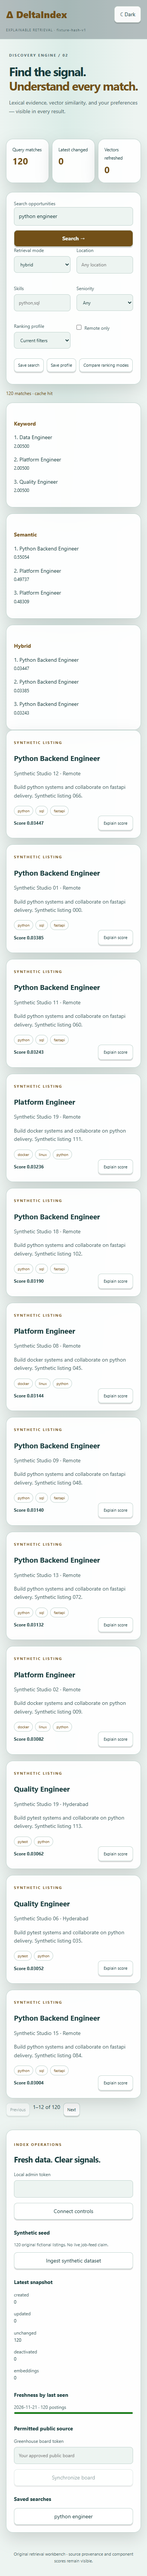
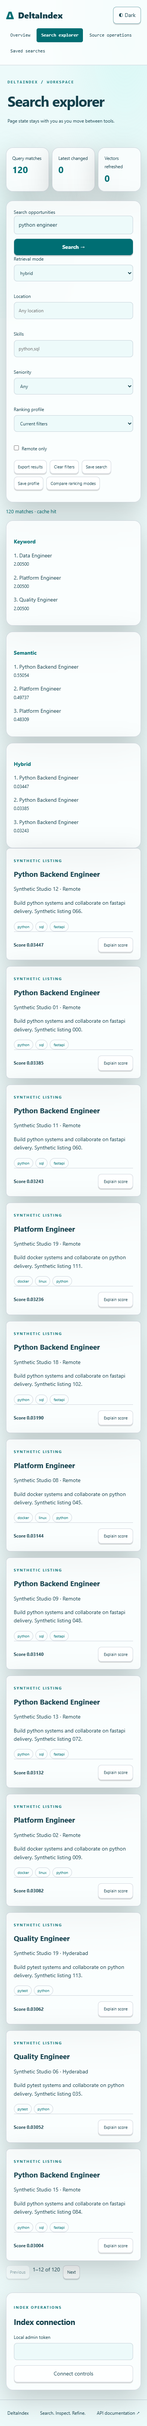
Phase 2: rebuild DeltaIndex as a teal search and source workbench

Changed region(s): [[0.0, 0.0, 1.0, 0.9998]]

diff --git a/frontend/src/App.tsx b/frontend/src/App.tsx
@@ -1,14 +1,20 @@
-import {useEffect,useRef,useState} from 'react';import {request} from './api';
-type Job={id:string;title:string;employer:string;description:string;location:string;skills:string[];synthetic:boolean;remote:boolean};
-type Match={job:Job;score:number;base_score:number;lexical_rank:number|null;vector_rank:number|null;preferences:Record<string,number>};
-type Search={results:Match[];total:number;cache:string;embedding_model:string;lexical_engine:string};
-type Run={id:string;created_at:string;stats:{created:number;updated:number;unchanged:number;deactivated:number;embeddings:number}};
-type Profile={id:string;skills:string[];remote:boolean;location:string;seniority:string;weights:Record<string,number>};
-export default function App(){const [token,setToken]=useState('');const [query,setQuery]=useState('python engineer');const [mode,setMode]=useState('hybrid');const [location,setLocation]=useState('');const [skills,setSkills]=useState('');const [remote,setRemote]=useState(false);const [seniority,setSeniority]=useState('');const [offset,setOffset]=useState(0);const [data,setData]=useState<Search>();const [runs,setRuns]=useState<Run[]>([]);const [fresh,setFresh]=useState<{day:string;postings:number}[]>([]);const [profiles,setProfiles]=useState<Profile[]>([]);const [profile,setProfile]=useState('');const [saved,setSaved]=useState<{id:string;query:string}[]>([]);const [board,setBoard]=useState('');const [selected,setSelected]=useState<Match>();const [compare,setCompare]=useState<{mode:string;data:Search}[]>([]);const [health,setHealth]=useState<Record<string,string>>({});const [error,setError]=useState('');const [status,setStatus]=useState('Loading index…');const [busy,setBusy]=useState(false);const [light,setLight]=useState(false);const started=useRef(false);const last=useRef<()=>Promise<void>>(async()=>{});
-const latest=runs[0]?.stats;async function act(fn:()=>Promise<void>){last.current=fn;setBusy(true);setError('');try{await fn()}catch(e){setError(e instanceof Error?e.message:'Request failed')}finally{setBusy(false)}}
-async function refresh(){const [h,r,f]=await Promise.all([request<Record<string,string>>('/health',token),request<Run[]>('/ingest/status',token),request<{day:string;postings:number}[]>('/ingest/freshness',token)]);setHealth(h);setRuns(r);setFresh(f)}
-async function connect(){await refresh();setProfiles(await request('/profiles',token));setSaved(await request('/saved-searches',token));setStatus('Connected to index controls.')}
-useEffect(()=>{if(!started.current){started.current=true;void act(async()=>{await refresh();setStatus('Index ready. Ingest the synthetic dataset to get started.')})}},[]);useEffect(()=>{document.documentElement.dataset.theme=light?'light':'dark'},[light]);
-function params(m=mode,page=0){return new URLSearchParams({q:query,mode:m,location,skills,remote:String(remote),seniority,limit:'12',offset:String(page),...(profile?{profile_id:profile}:{})})}
-async function search(page=0){const result=await request<Search>('/search?'+params(mode,page),token);setData(result);setOffset(page);setStatus(result.total+' matches · cache '+result.cache)}
-return <><header className="topbar"><a href="/" className="brand">Δ DeltaIndex</a><span className="mode">EXPLAINABLE RETRIEVAL · {health.embedding_mode??'CONNECTING'}</span><button aria-label="Change theme" onClick={()=>setLight(!light)}>{light?'☾ Dark':'☀ Light'}</button></header><div className="search-layout"><aside className="panel"><p className="eyebrow">INDEX OPERATIONS</p><h2>Fresh data. Clear signals.</h2><label>Local admin token<input type="password" id="token" value={token} onChange={e=>setToken(e.target.value)} autoComplete="off"/></label><button className="wide" onClick={()=>void act(connect)} disabled={busy}>Connect controls</button><h3>Synthetic seed</h3><p className="source-notice">120 original fictional listings. No live job-feed claim.</p><button id="seed" className="wide" disabled={busy} onClick={()=>void act(async()=>{const result=await request<Run['stats']>('/ingest/seed',token,{});await refresh();await search();setStatus('Ingest: '+JSON.stringify(result))})}>Ingest synthetic dataset</button><h3>Latest snapshot</h3><div id="ingest">{latest?<dl>{Object.entries(latest).map(([k,v])=><div key={k}><dt>{k}</dt><dd>{v}</dd></div>)}</dl>:<p className="empty">No source runs yet.</p>}</div><h3>Freshness by last seen</h3>{!fresh.length&&<p className="empty">No active postings.</p>}{fresh.map(f=><label key={f.day}>{f.day} · {f.postings} postings<meter min={0} max={Math.max(...fresh.map(x=>x.postings),1)} value={f.postings}/></label>)}<h3>Permitted public source</h3><label>Greenhouse board token<input value={board} onChange={e=>setBoard(e.target.value)} placeholder="Your approved public board" pattern="[A-Za-z0-9_-]+"/></label><button className="wide" disabled={busy||!board} onClick={()=>void act(async()=>{await request('/sources',token,{id:board,board});await request('/sources/'+encodeURIComponent(board)+'/run',token,{});await refresh();setStatus('Public source synchronized.')})}>Synchronize board</button><h3>Saved searches</h3>{saved.map(s=><button className="wide" key={s.id} onClick={()=>setQuery(s.query)}>{s.query}</button>)}{!saved.length&&<p className="empty">Connect to load your saved searches.</p>}</aside><main><section className="hero"><p className="eyebrow">DISCOVERY ENGINE / 02</p><h1>Find the signal.<br/><em>Understand every match.</em></h1><p>Lexical evidence, vector similarity, and your preferences — visible in every result.</p></section><div className="metrics"><div className="panel metric"><small>Query matches</small><strong>{data?.total??'—'}</strong></div><div className="panel metric"><small>Latest changed</small><strong>{latest?latest.created+latest.updated:'—'}</strong></div><div className="panel metric"><small>Vectors refreshed</small><strong>{latest?.embeddings??'—'}</strong></div></div><section className="panel"><form onSubmit={e=>{e.preventDefault();void act(()=>search())}}><label htmlFor="query">Search opportunities</label><div className="searchbar"><input id="query" required maxLength={500} value={query} onChange={e=>setQuery(e.target.value)}/><button className="primary" disabled={busy}>Search →</button></div><div className="filter-row"><label>Retrieval mode<select value={mode} onChange={e=>setMode(e.target.value)}><option>hybrid</option><option>keyword</option><option>semantic</option></select></label><label>Location<input value={location} onChange={e=>setLocation(e.target.value)} placeholder="Any location"/></label><label>Skills<input value={skills} onChange={e=>setSkills(e.target.value)} placeholder="python,sql"/></label><label>Seniority<select value={seniority} onChange={e=>setSeniority(e.target.value)}><option value="">Any</option><option>junior</option><option>mid</option><option>senior</option></select></label><label>Ranking profile<select value={profile} onChange={e=>setProfile(e.target.value)}><option value="">Current filters</option>{profiles.map(p=><option key={p.id} value={p.id}>{p.skills.join(', ')} · {p.location||'Any location'}</option>)}</select></label><label><input type="checkbox" checked={remote} onChange={e=>setRemote(e.target.checked)}/>Remote only</label></div></form><div className="actions"><button disabled={busy} onClick={()=>void act(async()=>{await request('/saved-searches',token,{query});setSaved(await request('/saved-searches',token));setStatus('Search saved.')})}>Save search</button><button disabled={busy} onClick={()=>void act(async()=>{await request('/profiles',token,{skills:skills.split(',').map(x=>x.trim()).filter(Boolean),location,remote,seniority});setProfiles(await request('/profiles',token));setStatus('Profile saved.')})}>Save profile</button><button id="compare" disabled={busy} onClick={()=>void act(async()=>{setCompare(await Promise.all(['keyword','semantic','hybrid'].map(async m=>({mode:m,data:await request<Search>('/search?'+params(m),token)}))));setStatus('Compared ranking modes.')})}>Compare ranking modes</button></div></section><div id="status" className="status" role="status">{busy&&<span className="spinner"/>}{status}</div>{error&&<div role="alert" className="error"><p>{error}</p><button onClick={()=>void act(last.current)}>Retry</button></div>}{compare.length>0&&<section className="comparison">{compare.map(c=><article className="panel" key={c.mode}><h3>{c.mode}</h3>{c.data.results.slice(0,3).map((r,i)=><p key={r.job.id}>{i+1}. {r.job.title}<br/><small>{r.score.toFixed(5)}</small></p>)}</article>)}</section>}<div id="results" className="job-grid">{data?.results.map(r=><article className="panel job" key={r.job.id}><span className="eyebrow">{r.job.synthetic?'SYNTHETIC LISTING':'PUBLIC SOURCE'}</span><h3>{r.job.title}</h3><p>{r.job.employer} · {r.job.location}</p><p>{r.job.description}</p><div className="chips">{r.job.skills.map(s=><span key={s}>{s}</span>)}</div><div className="section-head"><strong>Score {r.score.toFixed(5)}</strong><button onClick={()=>setSelected(r)}>Explain score</button></div></article>)}</div>{data?.total===0&&<p className="empty">No matches. Adjust filters or ingest a source.</p>}{data&&<div className="actions"><button disabled={busy||offset===0} onClick={()=>void act(()=>search(Math.max(0,offset-12)))}>Previous</button><span>{offset+1}–{Math.min(offset+12,data.total)} of {data.total}</span><button disabled={busy||offset+12>=data.total} onClick={()=>void act(()=>search(offset+12))}>Next</button></div>}</main></div>{selected&&<div className="overlay" role="dialog" aria-modal="true" aria-label="Score evidence"><section className="panel drawer"><p className="eyebrow">RANKING EVIDENCE</p><h2>{selected.job.title}</h2><table className="rank-table"><tbody><tr><th>Lexical rank</th><td>{selected.lexical_rank??'No lexical match'}</td></tr><tr><th>Vector rank</th><td>{selected.vector_rank??'No vector match'}</td></tr><tr><th>Base score</th><td>{selected.base_score.toFixed(6)}</td></tr>{Object.entries(selected.preferences).map(([k,v])=><tr key={k}><th>{k} contribution</th><td>{v.toFixed(6)}</td></tr>)}</tbody></table><p className="source-notice">{data?.embedding_model} · {data?.lexical_engine}. Fixture hash vectors are not semantic inference.</p><div className="actions">{[true,false].map(useful=><button key={String(useful)} onClick={()=>void act(async()=>{await request('/feedback',token,{job_id:selected.job.id,useful});setStatus('Feedback saved.');setSelected(undefined)})}>{useful?'Useful match':'Not useful'}</button>)}<button autoFocus onClick={()=>setSelected(undefined)}>Close evidence</button></div></section></div>}<footer>Original retrieval workbench · source provenance and component scores remain visible.</footer></>}
+import {useEffect,useState} from 'react';
+import Workspace from './Workspace';
+
+const routes = [['workspace','Search explorer'],['sources','Source operations'],['saved','Saved searches']] as const;
+function route(){return window.location.hash.replace('#/','') || 'home'}
+export default function App(){
+ const [page,setPage]=useState(route);const [opened,setOpened]=useState(page!=='home');
+ const [light,setLight]=useState(localStorage.getItem('DeltaIndex-theme')==='light');
+ useEffect(()=>{const change=()=>{const next=route();setPage(next);if(next!=='home')setOpened(true);window.scrollTo(0,0)};window.addEventListener('hashchange',change);return()=>window.removeEventListener('hashchange',change)},[]);
+ useEffect(()=>{document.documentElement.dataset.theme=light?'light':'dark';localStorage.setItem('DeltaIndex-theme',light?'light':'dark')},[light,page,opened]);
+ const valid=page==='home'||routes.some(([id])=>id===page);
+ return <div className="experience" data-page={page}>
+ <a className="skip-link" href="#page-content" onClick={e=>{e.preventDefault();document.getElementById("page-content")?.focus()}}>Skip to content</a>
+ <header className="site-nav"><a className="site-brand" href="#/home"><span>Δ</span>DeltaIndex</a><nav aria-label="Primary navigation"><a href="#/home" aria-current={page==='home'?'page':undefined}>Overview</a>{routes.map(([id,label])=><a key={id} href={'#/'+id} aria-current={page===id?'page':undefined}>{label}</a>)}</nav><button className="theme-switch" aria-label="Change theme" onClick={()=>setLight(!light)}>{light?'◐ Dark':'◑ Light'}</button></header>
+ <div id="page-content" tabIndex={-1}>
+ {page==='home'&&<main className="landing"><section className="landing-hero"><div className="hero-copy"><p className="landing-kicker">Less noise. More signal.</p><h1>The right role.<br/>The reasoning behind it.</h1><p className="landing-description">Search across words, meaning and your preferences. See how every match earned its place, then refine the search your way.</p><div className="landing-actions"><a className="launch-button" href="#/workspace">Launch search <span>↗</span></a><a className="text-link" href="#how-it-works" onClick={e=>{e.preventDefault();document.getElementById('how-it-works')?.scrollIntoView({behavior:'smooth'})}}>How it works ↓</a></div></div><div className="signal-art" aria-label="Illustration of hybrid ranking, not live scores"><div className="signal-axis">QUERY → CANDIDATES → EVIDENCE</div><div className="signal-bar"><span>Keyword</span><i/></div><div className="signal-bar"><span>Semantic</span><i/></div><div className="signal-bar"><span>Your context</span><i/></div><div className="signal-result">Δ <strong>A clearer match.</strong><span>Every score explained.</span></div><small>Retrieval concept · not a live result</small></div></section><section className="landing-path" id="how-it-works"><div className="section-intro"><p className="landing-kicker">DESIGNED AROUND YOUR WORKFLOW</p><h2>Follow the evidence.<br/>Refine the result.</h2></div><div className="journey-grid"><a className="journey-card" href="#/workspace"><span>SEARCH</span><h3>Three ways to discover</h3><p>Compare keyword, semantic and hybrid retrieval.</p><b aria-hidden="true">↗</b></a><a className="journey-card" href="#/sources"><span>SYNC</span><h3>Keep the index current</h3><p>Inspect source changes and synchronize a board.</p><b aria-hidden="true">↗</b></a><a className="journey-card" href="#/saved"><span>REFINE</span><h3>Pick up where you left off</h3><p>Reuse saved queries and ranking profiles.</p><b aria-hidden="true">↗</b></a></div></section><section className="honest-note"><span>Built on evidence</span><p>Explore working tools, inspect the results, and keep the limits visible. Demo data is labeled. No invented activity or production scores.</p><a href="/docs">Explore the API ↗</a></section></main>}
+ {!valid&&<section className="landing"><h1>Page not found</h1><a href="#/home">Return to overview</a></section>}
+ {opened&&<div className="product-surface" hidden={page==='home'||!valid}><div className="page-heading"><p className="landing-kicker">DeltaIndex / WORKSPACE</p><h1>{routes.find(([id])=>id===page)?.[1]}</h1><p>Page state stays with you as you move between tools.</p></div><Workspace/></div>}
+ </div><footer className="site-footer"><a href="#/home">DeltaIndex</a><span>Search. Inspect. Refine.</span><a href="/docs">API documentation ↗</a></footer></div>
+}

diff --git a/frontend/src/Workspace.tsx b/frontend/src/Workspace.tsx
@@ -1,0 +1,14 @@
+import {useEffect,useRef,useState} from 'react';import {request} from './api';
+type Job={id:string;title:string;employer:string;description:string;location:string;skills:string[];synthetic:boolean;remote:boolean};
+type Match={job:Job;score:number;base_score:number;lexical_rank:number|null;vector_rank:number|null;preferences:Record<string,number>};
+type Search={results:Match[];total:number;cache:string;embedding_model:string;lexical_engine:string};
+type Run={id:string;created_at:string;stats:{created:number;updated:number;unchanged:number;deactivated:number;embeddings:number}};
+type Profile={id:string;skills:string[];remote:boolean;location:string;seniority:string;weights:Record<string,number>};
+export default function Workspace(){const [token,setToken]=useState('');const [query,setQuery]=useState('python engineer');const [mode,setMode]=useState('hybrid');const [location,setLocation]=useState('');const [skills,setSkills]=useState('');const [remote,setRemote]=useState(false);const [seniority,setSeniority]=useState('');const [offset,setOffset]=useState(0);const [data,setData]=useState<Search>();const [runs,setRuns]=useState<Run[]>([]);const [fresh,setFresh]=useState<{day:string;postings:number}[]>([]);const [profiles,setProfiles]=useState<Profile[]>([]);const [profile,setProfile]=useState('');const [saved,setSaved]=useState<{id:string;query:string}[]>([]);const [board,setBoard]=useState('');const [selected,setSelected]=useState<Match>();const [compare,setCompare]=useState<{mode:string;data:Search}[]>([]);const [health,setHealth]=useState<Record<string,string>>({});const [error,setError]=useState('');const [status,setStatus]=useState('Loading index…');const [busy,setBusy]=useState(false);const [light,setLight]=useState(false);const started=useRef(false);const last=useRef<()=>Promise<void>>(async()=>{});
+const latest=runs[0]?.stats;async function act(fn:()=>Promise<void>){last.current=fn;setBusy(true);setError('');try{await fn()}catch(e){setError(e instanceof Error?e.message:'Request failed')}finally{setBusy(false)}}
+async function refresh(){const [h,r,f]=await Promise.all([request<Record<string,string>>('/health',token),request<Run[]>('/ingest/status',token),request<{day:string;postings:number}[]>('/ingest/freshness',token)]);setHealth(h);setRuns(r);setFresh(f)}
+async function connect(){await refresh();setProfiles(await request('/profiles',token));setSaved(await request('/saved-searches',token));setStatus('Connected to index controls.')}
+useEffect(()=>{if(!started.current){started.current=true;void act(async()=>{await refresh();setStatus('Index ready. Ingest the synthetic dataset to get started.')})}},[]);useEffect(()=>{document.documentElement.dataset.theme=light?'light':'dark'},[light]);
+function params(m=mode,page=0){return new URLSearchParams({q:query,mode:m,location,skills,remote:String(remote),seniority,limit:'12',offset:String(page),...(profile?{profile_id:profile}:{})})}
+async function search(page=0){const result=await request<Search>('/search?'+params(mode,page),token);setData(result);setOffset(page);setStatus(result.total+' matches · cache '+result.cache)}
+return <><header className="topbar"><a href="/" className="brand">Δ DeltaIndex</a><span className="mode">EXPLAINABLE RETRIEVAL · {health.embedding_mode??'CONNECTING'}</span><button aria-label="Change theme" onClick={()=>setLight(!light)}>{light?'☾ Dark':'☀ Light'}</button></header><div className="search-layout"><aside className="panel"><p className="eyebrow">INDEX OPERATIONS</p><h2>Index connection</h2><label>Local admin token<input type="password" id="token" value={token} onChange={e=>setToken(e.target.value)} autoComplete="off"/></label><button className="wide" onClick={()=>void act(connect)} disabled={busy}>Connect controls</button><div className="source-detail"><section><h3>Synthetic seed</h3><p className="source-notice">120 original fictional listings. No live job-feed claim.</p><button id="seed" className="wide" disabled={busy} onClick={()=>void act(async()=>{const result=await request<Run['stats']>('/ingest/seed',token,{});await refresh();await search();setStatus('Ingest: '+JSON.stringify(result))})}>Ingest synthetic dataset</button><h3>Latest snapshot</h3><div id="ingest">{latest?<dl>{Object.entries(latest).map(([k,v])=><div key={k}><dt>{k}</dt><dd>{v}</dd></div>)}</dl>:<p className="empty">No source runs yet.</p>}</div><h3>Freshness by last seen</h3>{!fresh.length&&<p className="empty">No active postings.</p>}{fresh.map(f=><label key={f.day}>{f.day} · {f.postings} postings<meter min={0} max={Math.max(...fresh.map(x=>x.postings),1)} value={f.postings}/></label>)}</section><section><h3>Permitted public source</h3><label>Greenhouse board token<input value={board} onChange={e=>setBoard(e.target.value)} placeholder="Your approved public board" pattern="[A-Za-z0-9_-]+"/></label><button className="wide" disabled={busy||!board} onClick={()=>void act(async()=>{await request('/sources',token,{id:board,board});await request('/sources/'+encodeURIComponent(board)+'/run',token,{});await refresh();setStatus('Public source synchronized.')})}>Synchronize board</button></section></div><div className="saved-detail"><h3>Saved searches</h3>{saved.map(s=><button className="wide" key={s.id} onClick={()=>{setQuery(s.query);window.location.hash="/workspace"}}>{s.query}</button>)}{!saved.length&&<p className="empty">Connect to load your saved searches.</p>}</div></aside><main><section className="hero"><p className="eyebrow">DISCOVERY ENGINE / 02</p><h1>Find the signal.<br/><em>Understand every match.</em></h1><p>Lexical evidence, vector similarity, and your preferences — visible in every result.</p></section><div className="metrics"><div className="panel metric"><small>Query matches</small><strong>{data?.total??'—'}</strong></div><div className="panel metric"><small>Latest changed</small><strong>{latest?latest.created+latest.updated:'—'}</strong></div><div className="panel metric"><small>Vectors refreshed</small><strong>{latest?.embeddings??'—'}</strong></div></div><section className="panel"><form onSubmit={e=>{e.preventDefault();void act(()=>search())}}><label htmlFor="query">Search opportunities</label><div className="searchbar"><input id="query" required maxLength={500} value={query} onChange={e=>setQuery(e.target.value)}/><button className="primary" disabled={busy}>Search →</button></div><div className="filter-row"><label>Retrieval mode<select value={mode} onChange={e=>setMode(e.target.value)}><option>hybrid</option><option>keyword</option><option>semantic</option></select></label><label>Location<input value={location} onChange={e=>setLocation(e.target.value)} placeholder="Any location"/></label><label>Skills<input value={skills} onChange={e=>setSkills(e.target.value)} placeholder="python,sql"/></label><label>Seniority<select value={seniority} onChange={e=>setSeniority(e.target.value)}><option value="">Any</option><option>junior</option><option>mid</option><option>senior</option></select></label><label>Ranking profile<select value={profile} onChange={e=>setProfile(e.target.value)}><option value="">Current filters</option>{profiles.map(p=><option key={p.id} value={p.id}>{p.skills.join(', ')} · {p.location||'Any location'}</option>)}</select></label><label><input type="checkbox" checked={remote} onChange={e=>setRemote(e.target.checked)}/>Remote only</label></div></form><div className="actions"><button disabled={!data} onClick={()=>{const blob=new Blob([JSON.stringify(data,null,2)],{type:"application/json"});const url=URL.createObjectURL(blob);const a=document.createElement("a");a.href=url;a.download="deltaindex-results.json";a.click();URL.revokeObjectURL(url)}}>Export results</button><button onClick={()=>{setLocation("");setSkills("");setRemote(false);setSeniority("");setProfile("");setStatus("Filters cleared. Search to refresh results.")}}>Clear filters</button><button disabled={busy} onClick={()=>void act(async()=>{await request('/saved-searches',token,{query});setSaved(await request('/saved-searches',token));setStatus('Search saved.')})}>Save search</button><button disabled={busy} onClick={()=>void act(async()=>{await request('/profiles',token,{skills:skills.split(',').map(x=>x.trim()).filter(Boolean),location,remote,seniority});setProfiles(await request('/profiles',token));setStatus('Profile saved.')})}>Save profile</button><button id="compare" disabled={busy} onClick={()=>void act(async()=>{setCompare(await Promise.all(['keyword','semantic','hybrid'].map(async m=>({mode:m,data:await request<Search>('/search?'+params(m),token)}))));setStatus('Compared ranking modes.')})}>Compare ranking modes</button></div></section><div id="status" className="status" role="status">{busy&&<span className="spinner"/>}{status}</div>{error&&<div role="alert" className="error"><p>{error}</p><button onClick={()=>void act(last.current)}>Retry</button></div>}{compare.length>0&&<section className="comparison">{compare.map(c=><article className="panel" key={c.mode}><h3>{c.mode}</h3>{c.data.results.slice(0,3).map((r,i)=><p key={r.job.id}>{i+1}. {r.job.title}<br/><small>{r.score.toFixed(5)}</small></p>)}</article>)}</section>}<div id="results" className="job-grid">{data?.results.map(r=><article className="panel job" key={r.job.id}><span className="eyebrow">{r.job.synthetic?'SYNTHETIC LISTING':'PUBLIC SOURCE'}</span><h3>{r.job.title}</h3><p>{r.job.employer} · {r.job.location}</p><p>{r.job.description}</p><div className="chips">{r.job.skills.map(s=><span key={s}>{s}</span>)}</div><div className="section-head"><strong>Score {r.score.toFixed(5)}</strong><button onClick={()=>setSelected(r)}>Explain score</button></div></article>)}</div>{data?.total===0&&<p className="empty">No matches. Adjust filters or ingest a source.</p>}{data&&<div className="actions"><button disabled={busy||offset===0} onClick={()=>void act(()=>search(Math.max(0,offset-12)))}>Previous</button><span>{offset+1}–{Math.min(offset+12,data.total)} of {data.total}</span><button disabled={busy||offset+12>=data.total} onClick={()=>void act(()=>search(offset+12))}>Next</button></div>}</main></div>{selected&&<div className="overlay" role="dialog" aria-modal="true" aria-label="Score evidence"><section className="panel drawer"><p className="eyebrow">RANKING EVIDENCE</p><h2>{selected.job.title}</h2><table className="rank-table"><tbody><tr><th>Lexical rank</th><td>{selected.lexical_rank??'No lexical match'}</td></tr><tr><th>Vector rank</th><td>{selected.vector_rank??'No vector match'}</td></tr><tr><th>Base score</th><td>{selected.base_score.toFixed(6)}</td></tr>{Object.entries(selected.preferences).map(([k,v])=><tr key={k}><th>{k} contribution</th><td>{v.toFixed(6)}</td></tr>)}</tbody></table><p className="source-notice">{data?.embedding_model} · {data?.lexical_engine}. Fixture hash vectors are not semantic inference.</p><div className="actions">{[true,false].map(useful=><button key={String(useful)} onClick={()=>void act(async()=>{await request('/feedback',token,{job_id:selected.job.id,useful});setStatus('Feedback saved.');setSelected(undefined)})}>{useful?'Useful match':'Not useful'}</button>)}<button autoFocus onClick={()=>setSelected(undefined)}>Close evidence</button></div></section></div>}<footer>Original retrieval workbench · source provenance and component scores remain visible.</footer></>}

diff --git a/frontend/src/experience.css b/frontend/src/experience.css
@@ -1,0 +1,13 @@
+/* Original multi-page visual direction; production workflows remain in Workspace. */
+:root{--bg:#071c24;--panel:#103b46ad;--ink:#e9fffc;--muted:#a6ccd0;--accent:#80ecdf;--line:rgba(128,236,223,.24);--shadow:0 24px 70px #0003;color-scheme:dark}
+html[data-theme=light]{--bg:#edfafa;--panel:#ffffffb8;--ink:#123f4b;--muted:#123f4b;--accent:#006e73;--line:#8c96aa66;color-scheme:light}
+body,html[data-theme=light] body{background:var(--bg);color:var(--ink)}body:before{content:'';position:fixed;inset:0;z-index:-1;pointer-events:none;background:radial-gradient(ellipse at 85% 12%,rgba(128,236,223,.18),transparent 42%),radial-gradient(ellipse at 0 75%,rgba(128,236,223,.09),transparent 40%)}
+.site-nav{position:sticky;top:0;z-index:5;display:flex;align-items:center;gap:28px;padding:18px 4vw;background:var(--panel);backdrop-filter:blur(24px);border-bottom:1px solid var(--line)}.site-brand{display:flex;align-items:center;gap:10px;text-decoration:none;font-weight:800;font-size:22px;white-space:nowrap}.site-brand>span{color:var(--accent);font-size:28px}.site-nav nav{display:flex;gap:5px;flex:1;justify-content:center;flex-wrap:wrap}.site-nav nav a{font-size:12px;text-decoration:none;padding:9px 12px;border-radius:30px;color:var(--muted)}.site-nav nav a[aria-current=page]{background:var(--accent);color:var(--bg);font-weight:700}.theme-switch{white-space:nowrap}.skip-link{position:absolute;left:10px;top:-100px;z-index:20;background:var(--bg);padding:14px}.skip-link:focus{top:10px}
+.landing{max-width:1440px;margin:auto;padding:0 5vw}.landing-hero{min-height:650px;display:grid;grid-template-columns:1.15fr 1fr;align-items:center;gap:5vw;padding:65px 0 85px}.landing-kicker{font-size:11px;letter-spacing:2px;text-transform:uppercase;color:var(--accent);font-weight:700}.landing h1{font-size:clamp(42px,5.7vw,83px);letter-spacing:-3px;line-height:1.04;margin:25px 0}.landing-description{max-width:510px;font-size:18px;color:var(--muted);line-height:1.8}.landing-actions{display:flex;gap:25px;align-items:center;flex-wrap:wrap;margin-top:35px}.launch-button{padding:17px 24px;border-radius:40px;background:var(--accent);color:var(--bg);font-weight:750;text-decoration:none;box-shadow:inset 0 2px #fff5,0 12px 30px #0002;display:flex;gap:24px;align-items:center}.text-link{font-size:13px;text-underline-offset:6px}.landing-path{padding:65px 0;border-top:1px solid var(--line);scroll-margin-top:100px}.section-intro h2{font-size:36px;line-height:1.2;letter-spacing:-1px}.journey-grid{display:grid;grid-template-columns:repeat(3,1fr);gap:20px;margin:35px 0}.journey-card{position:relative;display:block;text-decoration:none;padding:30px;border:1px solid var(--line);background:var(--panel);backdrop-filter:blur(22px);border-radius:25px;box-shadow:var(--shadow),inset 0 1px #fff2;transition:transform .2s}.journey-card:hover{transform:translateY(-5px)}.journey-card>span{font:12px ui-monospace,monospace;color:var(--accent)}.journey-card h3{font-size:22px;margin:30px 0 12px}.journey-card p{color:var(--muted);max-width:260px}.journey-card b{position:absolute;right:25px;top:25px;font-size:23px}.honest-note{display:flex;align-items:center;gap:40px;border-top:1px solid var(--line);padding:40px 0 65px}.honest-note>span{font-size:12px;color:var(--accent);white-space:nowrap}.honest-note p{color:var(--muted);max-width:650px}.honest-note a{white-space:nowrap;font-size:12px}.site-footer{display:flex;justify-content:space-between;gap:20px;border-top:1px solid var(--line);padding:25px 5vw;font-size:12px}.site-footer a{text-decoration:none}.page-heading{padding:35px 4vw 0}.page-heading h1{font-size:38px;letter-spacing:-1.5px;margin:10px 0}.page-heading>p:last-child{color:var(--muted);font-size:12px}.product-surface .topbar,.product-surface footer,.product-surface .hero{display:none}.product-surface .panel{background:var(--panel);backdrop-filter:blur(22px);border-color:var(--line);box-shadow:var(--shadow),inset 0 1px #fff1}.product-surface input,.product-surface textarea,.product-surface select{background:var(--bg)}.product-surface .primary{color:var(--bg)}.product-surface[hidden]{display:none}.product-surface .status{font-size:13px}.product-surface .overlay{z-index:10}.page-tools{display:flex;gap:12px;flex-wrap:wrap;margin:15px 0}.page-tools a{border:1px solid var(--line);border-radius:12px;padding:10px 16px;text-decoration:none}
+@media(max-width:900px){.site-nav{flex-wrap:wrap;gap:12px}.site-nav nav{order:3;flex-basis:100%;justify-content:flex-start}.theme-switch{margin-left:auto}.landing-hero{grid-template-columns:1fr;padding:45px 0;gap:35px}.landing h1{letter-spacing:-2px}.journey-grid{grid-template-columns:1fr}.honest-note{display:block}.site-footer{flex-wrap:wrap}.page-heading{padding:25px 20px 0}}
+@media(prefers-reduced-motion:reduce){*{scroll-behavior:auto!important;animation:none!important;transition:none!important}}
+
+.landing-hero{grid-template-columns:1.2fr 1fr}.landing h1{font-weight:850;letter-spacing:-4px}.signal-art{border:1px solid var(--line);border-radius:12px;background:linear-gradient(145deg,var(--panel),transparent);backdrop-filter:blur(24px);padding:35px;transform:perspective(1000px) rotateY(-8deg);box-shadow:20px 25px 0 #0002,var(--shadow)}.signal-axis{font:10px ui-monospace,monospace;letter-spacing:2px;color:var(--accent);margin-bottom:35px}.signal-bar{display:flex;gap:20px;align-items:center;margin:25px 0;font:12px ui-monospace,monospace}.signal-bar span{width:100px}.signal-bar i{display:block;flex:1;height:15px;background:repeating-linear-gradient(90deg,var(--accent) 0 8px,transparent 8px 12px);opacity:.8}.signal-bar:nth-child(3) i{margin-right:30px;opacity:.6}.signal-bar:nth-child(4) i{margin-right:60px;opacity:.4}.signal-result{border-top:1px solid var(--line);padding:30px 0;display:grid;gap:8px;font-size:22px}.signal-result span,.signal-art small{font-size:11px;color:var(--muted)}.journey-card{border-radius:8px}.search-layout{display:flex;flex-direction:column;max-width:1440px;padding:25px 4vw}.search-layout>aside{width:100%;display:grid;grid-template-columns:repeat(3,1fr);gap:10px 20px}.search-layout>main{width:100%;max-width:none}.job-grid{grid-template-columns:1fr!important}.job{display:grid;grid-template-columns:1.1fr 1.5fr;gap:5px 30px;border-radius:10px!important}.job>.eyebrow{grid-column:1/-1}.job h3{margin:10px 0}.job .section-head{grid-column:1/-1;border-top:1px solid var(--line);padding-top:15px}.filter-row{grid-template-columns:repeat(3,1fr)}.experience[data-page=workspace] .source-detail,.experience[data-page=workspace] .saved-detail{display:none}.experience[data-page=sources] .search-layout>main>*:not(.status):not(.error),.experience[data-page=sources] .saved-detail{display:none}.experience[data-page=saved] .source-detail{display:none}.experience[data-page=saved] .search-layout>main .metrics{display:none}.source-detail,.saved-detail{grid-column:1/-1}.source-detail{display:grid;grid-template-columns:1fr 1fr;gap:20px}.source-detail>section{padding:20px;border:1px solid var(--line);border-radius:12px}
+@media(max-width:900px){.landing-hero{grid-template-columns:1fr}.signal-art{transform:none}.landing h1{letter-spacing:-2px}.search-layout>aside{display:block}.source-detail,.job{display:block}.source-detail>section{margin-top:15px}.filter-row{grid-template-columns:1fr 1fr}}@media(max-width:540px){.filter-row{grid-template-columns:1fr}}
+
+.site-nav nav a,.launch-button{border-radius:5px}.site-nav nav,.landing-kicker{font-family:ui-monospace,monospace}.landing-path{display:grid;grid-template-columns:1fr 1.5fr;gap:50px}.journey-grid{grid-template-columns:1fr;margin:0}.journey-card{padding:22px 30px}.journey-card h3{margin:12px 0}.journey-card p{max-width:none}.section-intro{position:sticky;top:120px;align-self:start}@media(max-width:900px){.landing-path{display:block}.section-intro{position:static}.journey-grid{margin-top:30px}}

diff --git a/frontend/src/main.tsx b/frontend/src/main.tsx
@@ -1,1 +1,1 @@
-import {createRoot} from 'react-dom/client';import App from './App';import './style.css';createRoot(document.getElementById('root')!).render(<App/>);
+import {createRoot} from 'react-dom/client';import App from './App';import './style.css';import './experience.css';createRoot(document.getElementById('root')!).render(<App/>);

diff --git a/tests/browser_journey.py b/tests/browser_journey.py
@@ -63,6 +63,10 @@ with (
                         raise AssertionError("Test API exited")
                     time.sleep(0.5)
                 page.goto(base, wait_until="networkidle")
+                expect(page.get_by_role("heading", name="The right role. The reasoning behind it.")).to_be_visible()
+                page.screenshot(path=str(assets / "landing.png"), full_page=True)
+                page.get_by_role("link", name="Launch search", exact=False).click()
+                page.get_by_role("link", name="Source operations", exact=True).click()
                 page.locator("#seed").click()
                 expect(page.get_by_role("alert")).to_contain_text("Invalid admin token")
                 page.locator("#token").fill(token)
@@ -72,11 +76,14 @@ with (
                 expect(page.locator("#status")).to_contain_text(
                     '"created":120', timeout=30000
                 )
+                page.get_by_role("link", name="Search explorer", exact=True).click()
                 expect(page.locator("#results article")).to_have_count(12)
+                page.get_by_role("link", name="Source operations", exact=True).click()
                 page.locator("#seed").click()
                 expect(page.locator("#status")).to_contain_text(
                     '"unchanged":120', timeout=30000
                 )
+                page.get_by_role("link", name="Search explorer", exact=True).click()
                 page.get_by_role("button", name="Explain score").first.click()
                 expect(page.get_by_role("dialog")).to_contain_text("Lexical rank")
                 page.get_by_role("button", name="Useful match", exact=True).click()
@@ -95,6 +102,12 @@ with (
                 page.get_by_label("Retrieval mode").select_option("hybrid")
                 page.get_by_role("button", name="Search →", exact=True).click()
                 expect(page.locator("#results article")).to_have_count(12)
+                page.get_by_role("link", name="Saved searches", exact=True).click()
+                expect(page.locator(".saved-detail")).to_contain_text("python engineer")
+                page.get_by_role("link", name="Search explorer", exact=True).click()
+                with page.expect_download() as download:
+                    page.get_by_role("button", name="Export results", exact=True).click()
+                assert download.value.suggested_filename == "deltaindex-results.json"
                 page.locator("#token").fill("")
                 page.screenshot(path=str(assets / "desktop.png"), full_page=True)
                 page.get_by_role("button", name="Change theme").click()

diff --git a/README.md b/README.md
@@ -8,6 +8,12 @@
 
 DeltaIndex combines semantic vectors, PostgreSQL full-text search and explicit user preferences into an explainable ranking workflow. Incremental ingestion avoids unnecessary embedding work, while revision-aware Redis caching keeps search results aligned with the index.
 
+## Interface redesign
+
+A teal-and-ink search experience with a dedicated landing page, Search explorer, Source operations, and Saved searches. Results use wider evidence rows, with JSON export and clear-filter controls.
+
+![New DeltaIndex landing page](docs/assets/landing.png)
+
 ## Production preview
 
 ![DeltaIndex running on Vercel](docs/assets/production-desktop.png)
